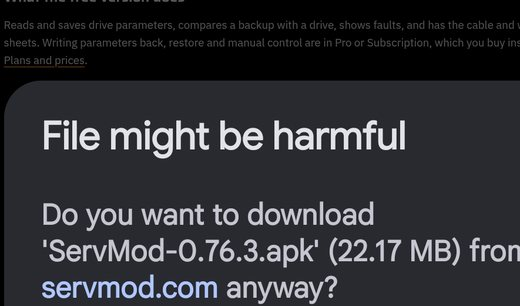
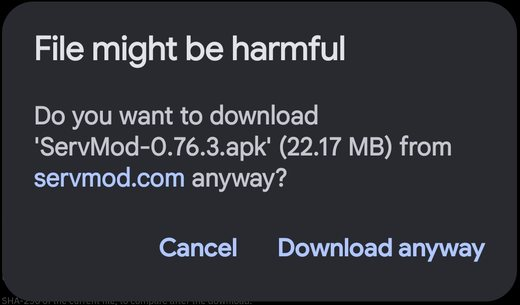
Download page: install steps as numbered cards with correctly cropped screenshots
Claude-Session: https://claude.ai/code/session_01RPEheykaQpmHcNL9J1mHk5

diff --git a/site/download.html b/site/download.html
@@ -17,7 +17,7 @@
 
 <link rel="preload" href="/fonts/saira-latin-700-normal.woff2" as="font" type="font/woff2" crossorigin>
 <link rel="preload" href="/fonts/ibm-plex-sans-latin-400-normal.woff2" as="font" type="font/woff2" crossorigin>
-<link rel="stylesheet" href="/style.css?v=11dc1897">
+<link rel="stylesheet" href="/style.css?v=ddc2b80d">
 </head>
 <body>
 <a class="skip" href="#main">Skip to content</a>
@@ -42,12 +42,12 @@
 <p>Reads and saves drive parameters, compares a backup with a drive, shows faults, and has the cable and wiring cheat sheets. Writing parameters back, restore and manual control are in Pro or Subscription, which you buy inside the app. <a href="/pricing.html">Plans and prices</a>.</p>
 </div><div class="prose">
 <h2 id="install" style="margin-top:0">Install in four steps</h2>
-<p class="hint">You will see two or three warnings from Android. They appear for every app installed outside Google Play. If you already downloaded this file before, Chrome may also ask "Download file again?"; tap Download again.</p>
-<ol>
-<li>Tap <b>Download free version</b> and wait for the file (about 22 MB). Chrome warns that an APK file might be harmful. This is normal for any app that is not from Google Play: tap <b>Download anyway</b>.<figure class="instshot"><img src="/assets/install/chrome-warning.jpg" width="520" height="306" loading="lazy" alt="Chrome: tap Download anyway"><figcaption>Chrome: tap Download anyway</figcaption></figure></li>
-<li>Tap <b>Open</b> on the "File downloaded" message (or open it from Downloads). If Android asks, allow your browser or Files app to install apps from this source, then tap <b>Install</b>.<figure class="instshot"><img src="/assets/install/install.jpg" width="520" height="239" loading="lazy" alt="Android: tap Install"><figcaption>Android: tap Install</figcaption></figure></li>
-<li>Google Play Protect says the app is unknown, because it is not on Google Play yet. Choose <b>Send this time</b> or <b>Don't send</b>; both continue the installation. If it blocks the install, choose <b>More details</b>, then <b>Install anyway</b>.<figure class="instshot"><img src="/assets/install/play-protect.jpg" width="520" height="841" loading="lazy" alt="Play Protect: Send this time or Don't send"><figcaption>Play Protect: Send this time or Don't send</figcaption></figure></li>
-<li>Open ServMod, read the terms and start. Plug in your OTG adapter and cable when you reach a drive.</li>
+<p class="hint">Android shows a few warnings, because ServMod is not on Google Play yet. They appear for every app installed from outside the store, and each one has a safe way through.</p>
+<ol class="isteps">
+<li class="istep"><span class="inum" aria-hidden="true">1</span><div><h3>Download the file</h3><p>Tap <b>Download free version</b> and wait for the file (about 22 MB). Chrome warns that an APK file might be harmful. Tap <b>Download anyway</b>. If you downloaded it before, Chrome asks "Download file again?": tap <b>Download again</b>.</p><figure class="instshot"><img src="/assets/install/chrome-warning.jpg" width="520" height="306" loading="lazy" alt="Chrome: tap Download anyway"></figure></div></li>
+<li class="istep"><span class="inum" aria-hidden="true">2</span><div><h3>Open it and tap Install</h3><p>Tap <b>Open</b> on the "File downloaded" message, or open the file from Downloads. If Android asks, allow your browser or Files app to install apps from this source. Then tap <b>Install</b>.</p><figure class="instshot"><img src="/assets/install/install.jpg" width="520" height="239" loading="lazy" alt="Android: tap Install"></figure></div></li>
+<li class="istep"><span class="inum" aria-hidden="true">3</span><div><h3>Play Protect: choose Send this time</h3><p>Google Play Protect says the app is unknown. Choose <b>Send this time</b> or <b>Don't send</b>: both continue the installation. If it blocks the install, choose <b>More details</b>, then <b>Install anyway</b>.</p><figure class="instshot"><img src="/assets/install/play-protect.jpg" width="520" height="841" loading="lazy" alt="Play Protect: Send this time or Don't send"></figure></div></li>
+<li class="istep"><span class="inum" aria-hidden="true">4</span><div><h3>Open ServMod and start</h3><p>Read the terms, tick the box and tap <b>Accept and continue</b>. You land on the home screen with all the tools. Plug in your OTG adapter and cable when you reach a drive.</p><figure class="instshot"><img src="/assets/install/home.jpg" width="460" height="563" loading="lazy" alt="ServMod home screen with the tool tiles"></figure></div></li>
 </ol>
 <h2>Updates</h2>
 <p>See <a href="/whats-new.html">what is new</a> in each version. The app checks this site for a new version and tells you. It downloads only a small version file. Nothing else is sent.</p>

diff --git a/site/equipment/allen-bradley-powerflex-525.html b/site/equipment/allen-bradley-powerflex-525.html
@@ -17,7 +17,7 @@
 
 <link rel="preload" href="/fonts/saira-latin-700-normal.woff2" as="font" type="font/woff2" crossorigin>
 <link rel="preload" href="/fonts/ibm-plex-sans-latin-400-normal.woff2" as="font" type="font/woff2" crossorigin>
-<link rel="stylesheet" href="/style.css?v=11dc1897"><script type="application/ld+json">{"@context": "https://schema.org", "@type": "BreadcrumbList", "itemListElement": [{"@type": "ListItem", "position": 1, "name": "ServMod", "item": "https://servmod.com/"}, {"@type": "ListItem", "position": 2, "name": "Supported equipment", "item": "https://servmod.com/equipment.html"}, {"@type": "ListItem", "position": 3, "name": "Allen-Bradley PowerFlex 525", "item": "https://servmod.com/equipment/allen-bradley-powerflex-525.html"}]}</script>
+<link rel="stylesheet" href="/style.css?v=ddc2b80d"><script type="application/ld+json">{"@context": "https://schema.org", "@type": "BreadcrumbList", "itemListElement": [{"@type": "ListItem", "position": 1, "name": "ServMod", "item": "https://servmod.com/"}, {"@type": "ListItem", "position": 2, "name": "Supported equipment", "item": "https://servmod.com/equipment.html"}, {"@type": "ListItem", "position": 3, "name": "Allen-Bradley PowerFlex 525", "item": "https://servmod.com/equipment/allen-bradley-powerflex-525.html"}]}</script>
 </head>
 <body>
 <a class="skip" href="#main">Skip to content</a>

diff --git a/site/equipment/omron-e5cn.html b/site/equipment/omron-e5cn.html
@@ -17,7 +17,7 @@
 
 <link rel="preload" href="/fonts/saira-latin-700-normal.woff2" as="font" type="font/woff2" crossorigin>
 <link rel="preload" href="/fonts/ibm-plex-sans-latin-400-normal.woff2" as="font" type="font/woff2" crossorigin>
-<link rel="stylesheet" href="/style.css?v=11dc1897"><script type="application/ld+json">{"@context": "https://schema.org", "@type": "BreadcrumbList", "itemListElement": [{"@type": "ListItem", "position": 1, "name": "ServMod", "item": "https://servmod.com/"}, {"@type": "ListItem", "position": 2, "name": "Supported equipment", "item": "https://servmod.com/equipment.html"}, {"@type": "ListItem", "position": 3, "name": "Omron E5CN temperature controller", "item": "https://servmod.com/equipment/omron-e5cn.html"}]}</script>
+<link rel="stylesheet" href="/style.css?v=ddc2b80d"><script type="application/ld+json">{"@context": "https://schema.org", "@type": "BreadcrumbList", "itemListElement": [{"@type": "ListItem", "position": 1, "name": "ServMod", "item": "https://servmod.com/"}, {"@type": "ListItem", "position": 2, "name": "Supported equipment", "item": "https://servmod.com/equipment.html"}, {"@type": "ListItem", "position": 3, "name": "Omron E5CN temperature controller", "item": "https://servmod.com/equipment/omron-e5cn.html"}]}</script>
 </head>
 <body>
 <a class="skip" href="#main">Skip to content</a>

diff --git a/site/equipment/siemens-sinamics-v20.html b/site/equipment/siemens-sinamics-v20.html
@@ -17,7 +17,7 @@
 
 <link rel="preload" href="/fonts/saira-latin-700-normal.woff2" as="font" type="font/woff2" crossorigin>
 <link rel="preload" href="/fonts/ibm-plex-sans-latin-400-normal.woff2" as="font" type="font/woff2" crossorigin>
-<link rel="stylesheet" href="/style.css?v=11dc1897"><script type="application/ld+json">{"@context": "https://schema.org", "@type": "BreadcrumbList", "itemListElement": [{"@type": "ListItem", "position": 1, "name": "ServMod", "item": "https://servmod.com/"}, {"@type": "ListItem", "position": 2, "name": "Supported equipment", "item": "https://servmod.com/equipment.html"}, {"@type": "ListItem", "position": 3, "name": "Siemens SINAMICS V20", "item": "https://servmod.com/equipment/siemens-sinamics-v20.html"}]}</script>
+<link rel="stylesheet" href="/style.css?v=ddc2b80d"><script type="application/ld+json">{"@context": "https://schema.org", "@type": "BreadcrumbList", "itemListElement": [{"@type": "ListItem", "position": 1, "name": "ServMod", "item": "https://servmod.com/"}, {"@type": "ListItem", "position": 2, "name": "Supported equipment", "item": "https://servmod.com/equipment.html"}, {"@type": "ListItem", "position": 3, "name": "Siemens SINAMICS V20", "item": "https://servmod.com/equipment/siemens-sinamics-v20.html"}]}</script>
 </head>
 <body>
 <a class="skip" href="#main">Skip to content</a>

diff --git a/site/equipment/siemens-op17.html b/site/equipment/siemens-op17.html
@@ -17,7 +17,7 @@
 
 <link rel="preload" href="/fonts/saira-latin-700-normal.woff2" as="font" type="font/woff2" crossorigin>
 <link rel="preload" href="/fonts/ibm-plex-sans-latin-400-normal.woff2" as="font" type="font/woff2" crossorigin>
-<link rel="stylesheet" href="/style.css?v=11dc1897"><script type="application/ld+json">{"@context": "https://schema.org", "@type": "BreadcrumbList", "itemListElement": [{"@type": "ListItem", "position": 1, "name": "ServMod", "item": "https://servmod.com/"}, {"@type": "ListItem", "position": 2, "name": "Supported equipment", "item": "https://servmod.com/equipment.html"}, {"@type": "ListItem", "position": 3, "name": "Siemens OP17 operator panel", "item": "https://servmod.com/equipment/siemens-op17.html"}]}</script>
+<link rel="stylesheet" href="/style.css?v=ddc2b80d"><script type="application/ld+json">{"@context": "https://schema.org", "@type": "BreadcrumbList", "itemListElement": [{"@type": "ListItem", "position": 1, "name": "ServMod", "item": "https://servmod.com/"}, {"@type": "ListItem", "position": 2, "name": "Supported equipment", "item": "https://servmod.com/equipment.html"}, {"@type": "ListItem", "position": 3, "name": "Siemens OP17 operator panel", "item": "https://servmod.com/equipment/siemens-op17.html"}]}</script>
 </head>
 <body>
 <a class="skip" href="#main">Skip to content</a>

diff --git a/site/equipment/mitsubishi-fr-d700.html b/site/equipment/mitsubishi-fr-d700.html
@@ -17,7 +17,7 @@
 
 <link rel="preload" href="/fonts/saira-latin-700-normal.woff2" as="font" type="font/woff2" crossorigin>
 <link rel="preload" href="/fonts/ibm-plex-sans-latin-400-normal.woff2" as="font" type="font/woff2" crossorigin>
-<link rel="stylesheet" href="/style.css?v=11dc1897"><script type="application/ld+json">{"@context": "https://schema.org", "@type": "BreadcrumbList", "itemListElement": [{"@type": "ListItem", "position": 1, "name": "ServMod", "item": "https://servmod.com/"}, {"@type": "ListItem", "position": 2, "name": "Supported equipment", "item": "https://servmod.com/equipment.html"}, {"@type": "ListItem", "position": 3, "name": "Mitsubishi FR-D700", "item": "https://servmod.com/equipment/mitsubishi-fr-d700.html"}]}</script>
+<link rel="stylesheet" href="/style.css?v=ddc2b80d"><script type="application/ld+json">{"@context": "https://schema.org", "@type": "BreadcrumbList", "itemListElement": [{"@type": "ListItem", "position": 1, "name": "ServMod", "item": "https://servmod.com/"}, {"@type": "ListItem", "position": 2, "name": "Supported equipment", "item": "https://servmod.com/equipment.html"}, {"@type": "ListItem", "position": 3, "name": "Mitsubishi FR-D700", "item": "https://servmod.com/equipment/mitsubishi-fr-d700.html"}]}</script>
 </head>
 <body>
 <a class="skip" href="#main">Skip to content</a>

diff --git a/site/equipment/danfoss-fc-280.html b/site/equipment/danfoss-fc-280.html
@@ -17,7 +17,7 @@
 
 <link rel="preload" href="/fonts/saira-latin-700-normal.woff2" as="font" type="font/woff2" crossorigin>
 <link rel="preload" href="/fonts/ibm-plex-sans-latin-400-normal.woff2" as="font" type="font/woff2" crossorigin>
-<link rel="stylesheet" href="/style.css?v=11dc1897"><script type="application/ld+json">{"@context": "https://schema.org", "@type": "BreadcrumbList", "itemListElement": [{"@type": "ListItem", "position": 1, "name": "ServMod", "item": "https://servmod.com/"}, {"@type": "ListItem", "position": 2, "name": "Supported equipment", "item": "https://servmod.com/equipment.html"}, {"@type": "ListItem", "position": 3, "name": "Danfoss VLT FC 280", "item": "https://servmod.com/equipment/danfoss-fc-280.html"}]}</script>
+<link rel="stylesheet" href="/style.css?v=ddc2b80d"><script type="application/ld+json">{"@context": "https://schema.org", "@type": "BreadcrumbList", "itemListElement": [{"@type": "ListItem", "position": 1, "name": "ServMod", "item": "https://servmod.com/"}, {"@type": "ListItem", "position": 2, "name": "Supported equipment", "item": "https://servmod.com/equipment.html"}, {"@type": "ListItem", "position": 3, "name": "Danfoss VLT FC 280", "item": "https://servmod.com/equipment/danfoss-fc-280.html"}]}</script>
 </head>
 <body>
 <a class="skip" href="#main">Skip to content</a>

diff --git a/site/equipment/danfoss-vlt-2800.html b/site/equipment/danfoss-vlt-2800.html
@@ -17,7 +17,7 @@
 
 <link rel="preload" href="/fonts/saira-latin-700-normal.woff2" as="font" type="font/woff2" crossorigin>
 <link rel="preload" href="/fonts/ibm-plex-sans-latin-400-normal.woff2" as="font" type="font/woff2" crossorigin>
-<link rel="stylesheet" href="/style.css?v=11dc1897"><script type="application/ld+json">{"@context": "https://schema.org", "@type": "BreadcrumbList", "itemListElement": [{"@type": "ListItem", "position": 1, "name": "ServMod", "item": "https://servmod.com/"}, {"@type": "ListItem", "position": 2, "name": "Supported equipment", "item": "https://servmod.com/equipment.html"}, {"@type": "ListItem", "position": 3, "name": "Danfoss VLT 2800", "item": "https://servmod.com/equipment/danfoss-vlt-2800.html"}]}</script>
+<link rel="stylesheet" href="/style.css?v=ddc2b80d"><script type="application/ld+json">{"@context": "https://schema.org", "@type": "BreadcrumbList", "itemListElement": [{"@type": "ListItem", "position": 1, "name": "ServMod", "item": "https://servmod.com/"}, {"@type": "ListItem", "position": 2, "name": "Supported equipment", "item": "https://servmod.com/equipment.html"}, {"@type": "ListItem", "position": 3, "name": "Danfoss VLT 2800", "item": "https://servmod.com/equipment/danfoss-vlt-2800.html"}]}</script>
 </head>
 <body>
 <a class="skip" href="#main">Skip to content</a>

diff --git a/site/equipment/lenze-8400.html b/site/equipment/lenze-8400.html
@@ -17,7 +17,7 @@
 
 <link rel="preload" href="/fonts/saira-latin-700-normal.woff2" as="font" type="font/woff2" crossorigin>
 <link rel="preload" href="/fonts/ibm-plex-sans-latin-400-normal.woff2" as="font" type="font/woff2" crossorigin>
-<link rel="stylesheet" href="/style.css?v=11dc1897"><script type="application/ld+json">{"@context": "https://schema.org", "@type": "BreadcrumbList", "itemListElement": [{"@type": "ListItem", "position": 1, "name": "ServMod", "item": "https://servmod.com/"}, {"@type": "ListItem", "position": 2, "name": "Supported equipment", "item": "https://servmod.com/equipment.html"}, {"@type": "ListItem", "position": 3, "name": "Lenze 8400 StateLine C", "item": "https://servmod.com/equipment/lenze-8400.html"}]}</script>
+<link rel="stylesheet" href="/style.css?v=ddc2b80d"><script type="application/ld+json">{"@context": "https://schema.org", "@type": "BreadcrumbList", "itemListElement": [{"@type": "ListItem", "position": 1, "name": "ServMod", "item": "https://servmod.com/"}, {"@type": "ListItem", "position": 2, "name": "Supported equipment", "item": "https://servmod.com/equipment.html"}, {"@type": "ListItem", "position": 3, "name": "Lenze 8400 StateLine C", "item": "https://servmod.com/equipment/lenze-8400.html"}]}</script>
 </head>
 <body>
 <a class="skip" href="#main">Skip to content</a>

diff --git a/site/equipment/schneider-atv320.html b/site/equipment/schneider-atv320.html
@@ -17,7 +17,7 @@
 
 <link rel="preload" href="/fonts/saira-latin-700-normal.woff2" as="font" type="font/woff2" crossorigin>
 <link rel="preload" href="/fonts/ibm-plex-sans-latin-400-normal.woff2" as="font" type="font/woff2" crossorigin>
-<link rel="stylesheet" href="/style.css?v=11dc1897"><script type="application/ld+json">{"@context": "https://schema.org", "@type": "BreadcrumbList", "itemListElement": [{"@type": "ListItem", "position": 1, "name": "ServMod", "item": "https://servmod.com/"}, {"@type": "ListItem", "position": 2, "name": "Supported equipment", "item": "https://servmod.com/equipment.html"}, {"@type": "ListItem", "position": 3, "name": "Schneider ATV320", "item": "https://servmod.com/equipment/schneider-atv320.html"}]}</script>
+<link rel="stylesheet" href="/style.css?v=ddc2b80d"><script type="application/ld+json">{"@context": "https://schema.org", "@type": "BreadcrumbList", "itemListElement": [{"@type": "ListItem", "position": 1, "name": "ServMod", "item": "https://servmod.com/"}, {"@type": "ListItem", "position": 2, "name": "Supported equipment", "item": "https://servmod.com/equipment.html"}, {"@type": "ListItem", "position": 3, "name": "Schneider ATV320", "item": "https://servmod.com/equipment/schneider-atv320.html"}]}</script>
 </head>
 <body>
 <a class="skip" href="#main">Skip to content</a>

diff --git a/site/equipment/inovance-md500.html b/site/equipment/inovance-md500.html
@@ -17,7 +17,7 @@
 
 <link rel="preload" href="/fonts/saira-latin-700-normal.woff2" as="font" type="font/woff2" crossorigin>
 <link rel="preload" href="/fonts/ibm-plex-sans-latin-400-normal.woff2" as="font" type="font/woff2" crossorigin>
-<link rel="stylesheet" href="/style.css?v=11dc1897"><script type="application/ld+json">{"@context": "https://schema.org", "@type": "BreadcrumbList", "itemListElement": [{"@type": "ListItem", "position": 1, "name": "ServMod", "item": "https://servmod.com/"}, {"@type": "ListItem", "position": 2, "name": "Supported equipment", "item": "https://servmod.com/equipment.html"}, {"@type": "ListItem", "position": 3, "name": "Inovance MD500", "item": "https://servmod.com/equipment/inovance-md500.html"}]}</script>
+<link rel="stylesheet" href="/style.css?v=ddc2b80d"><script type="application/ld+json">{"@context": "https://schema.org", "@type": "BreadcrumbList", "itemListElement": [{"@type": "ListItem", "position": 1, "name": "ServMod", "item": "https://servmod.com/"}, {"@type": "ListItem", "position": 2, "name": "Supported equipment", "item": "https://servmod.com/equipment.html"}, {"@type": "ListItem", "position": 3, "name": "Inovance MD500", "item": "https://servmod.com/equipment/inovance-md500.html"}]}</script>
 </head>
 <body>
 <a class="skip" href="#main">Skip to content</a>

diff --git a/site/equipment/omron-mx2.html b/site/equipment/omron-mx2.html
@@ -17,7 +17,7 @@
 
 <link rel="preload" href="/fonts/saira-latin-700-normal.woff2" as="font" type="font/woff2" crossorigin>
 <link rel="preload" href="/fonts/ibm-plex-sans-latin-400-normal.woff2" as="font" type="font/woff2" crossorigin>
-<link rel="stylesheet" href="/style.css?v=11dc1897"><script type="application/ld+json">{"@context": "https://schema.org", "@type": "BreadcrumbList", "itemListElement": [{"@type": "ListItem", "position": 1, "name": "ServMod", "item": "https://servmod.com/"}, {"@type": "ListItem", "position": 2, "name": "Supported equipment", "item": "https://servmod.com/equipment.html"}, {"@type": "ListItem", "position": 3, "name": "Omron 3G3MX2 (MX2)", "item": "https://servmod.com/equipment/omron-mx2.html"}]}</script>
+<link rel="stylesheet" href="/style.css?v=ddc2b80d"><script type="application/ld+json">{"@context": "https://schema.org", "@type": "BreadcrumbList", "itemListElement": [{"@type": "ListItem", "position": 1, "name": "ServMod", "item": "https://servmod.com/"}, {"@type": "ListItem", "position": 2, "name": "Supported equipment", "item": "https://servmod.com/equipment.html"}, {"@type": "ListItem", "position": 3, "name": "Omron 3G3MX2 (MX2)", "item": "https://servmod.com/equipment/omron-mx2.html"}]}</script>
 </head>
 <body>
 <a class="skip" href="#main">Skip to content</a>
